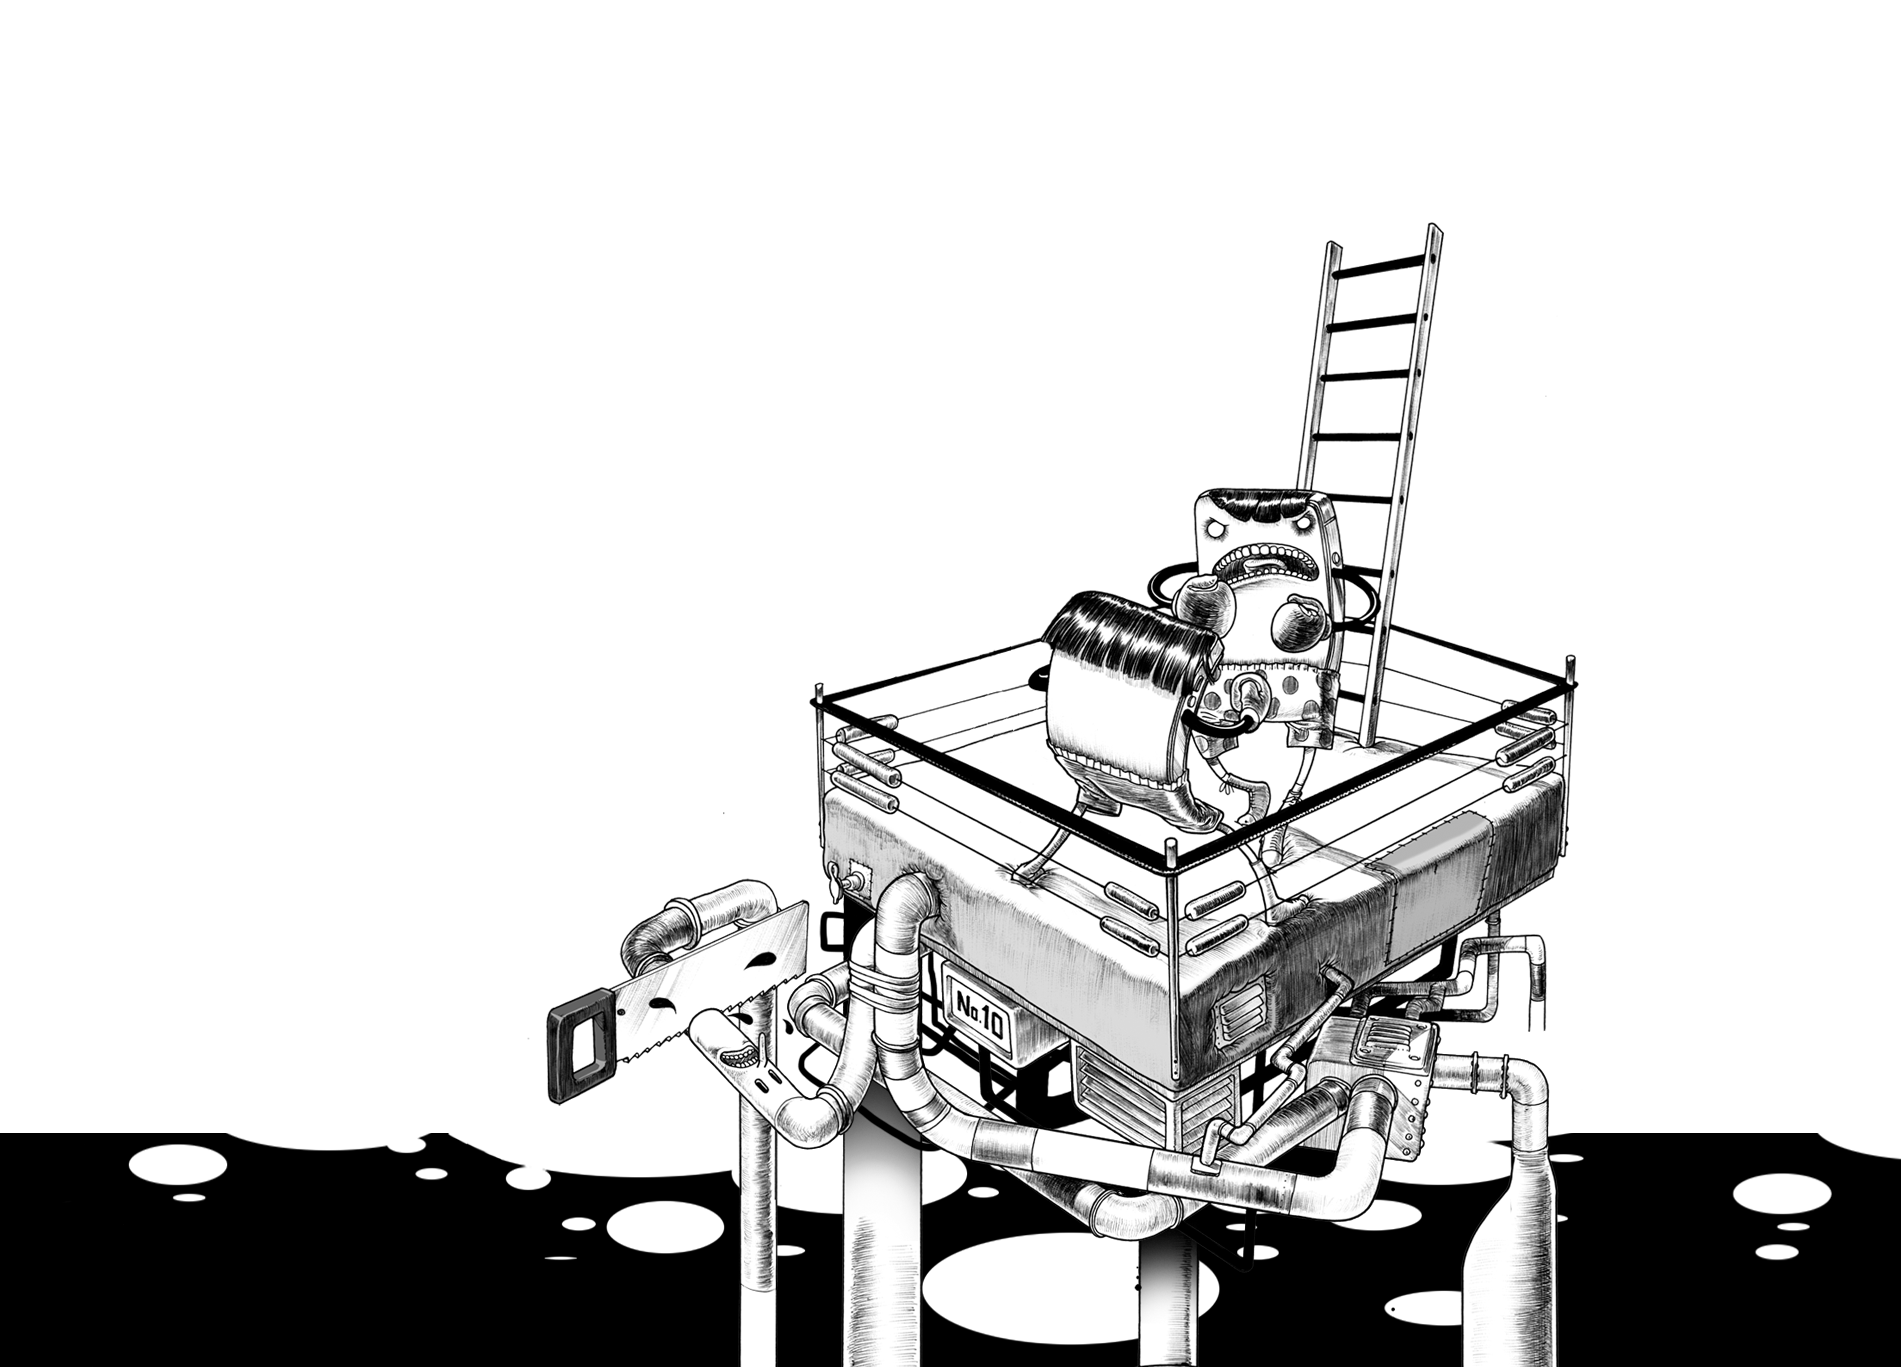
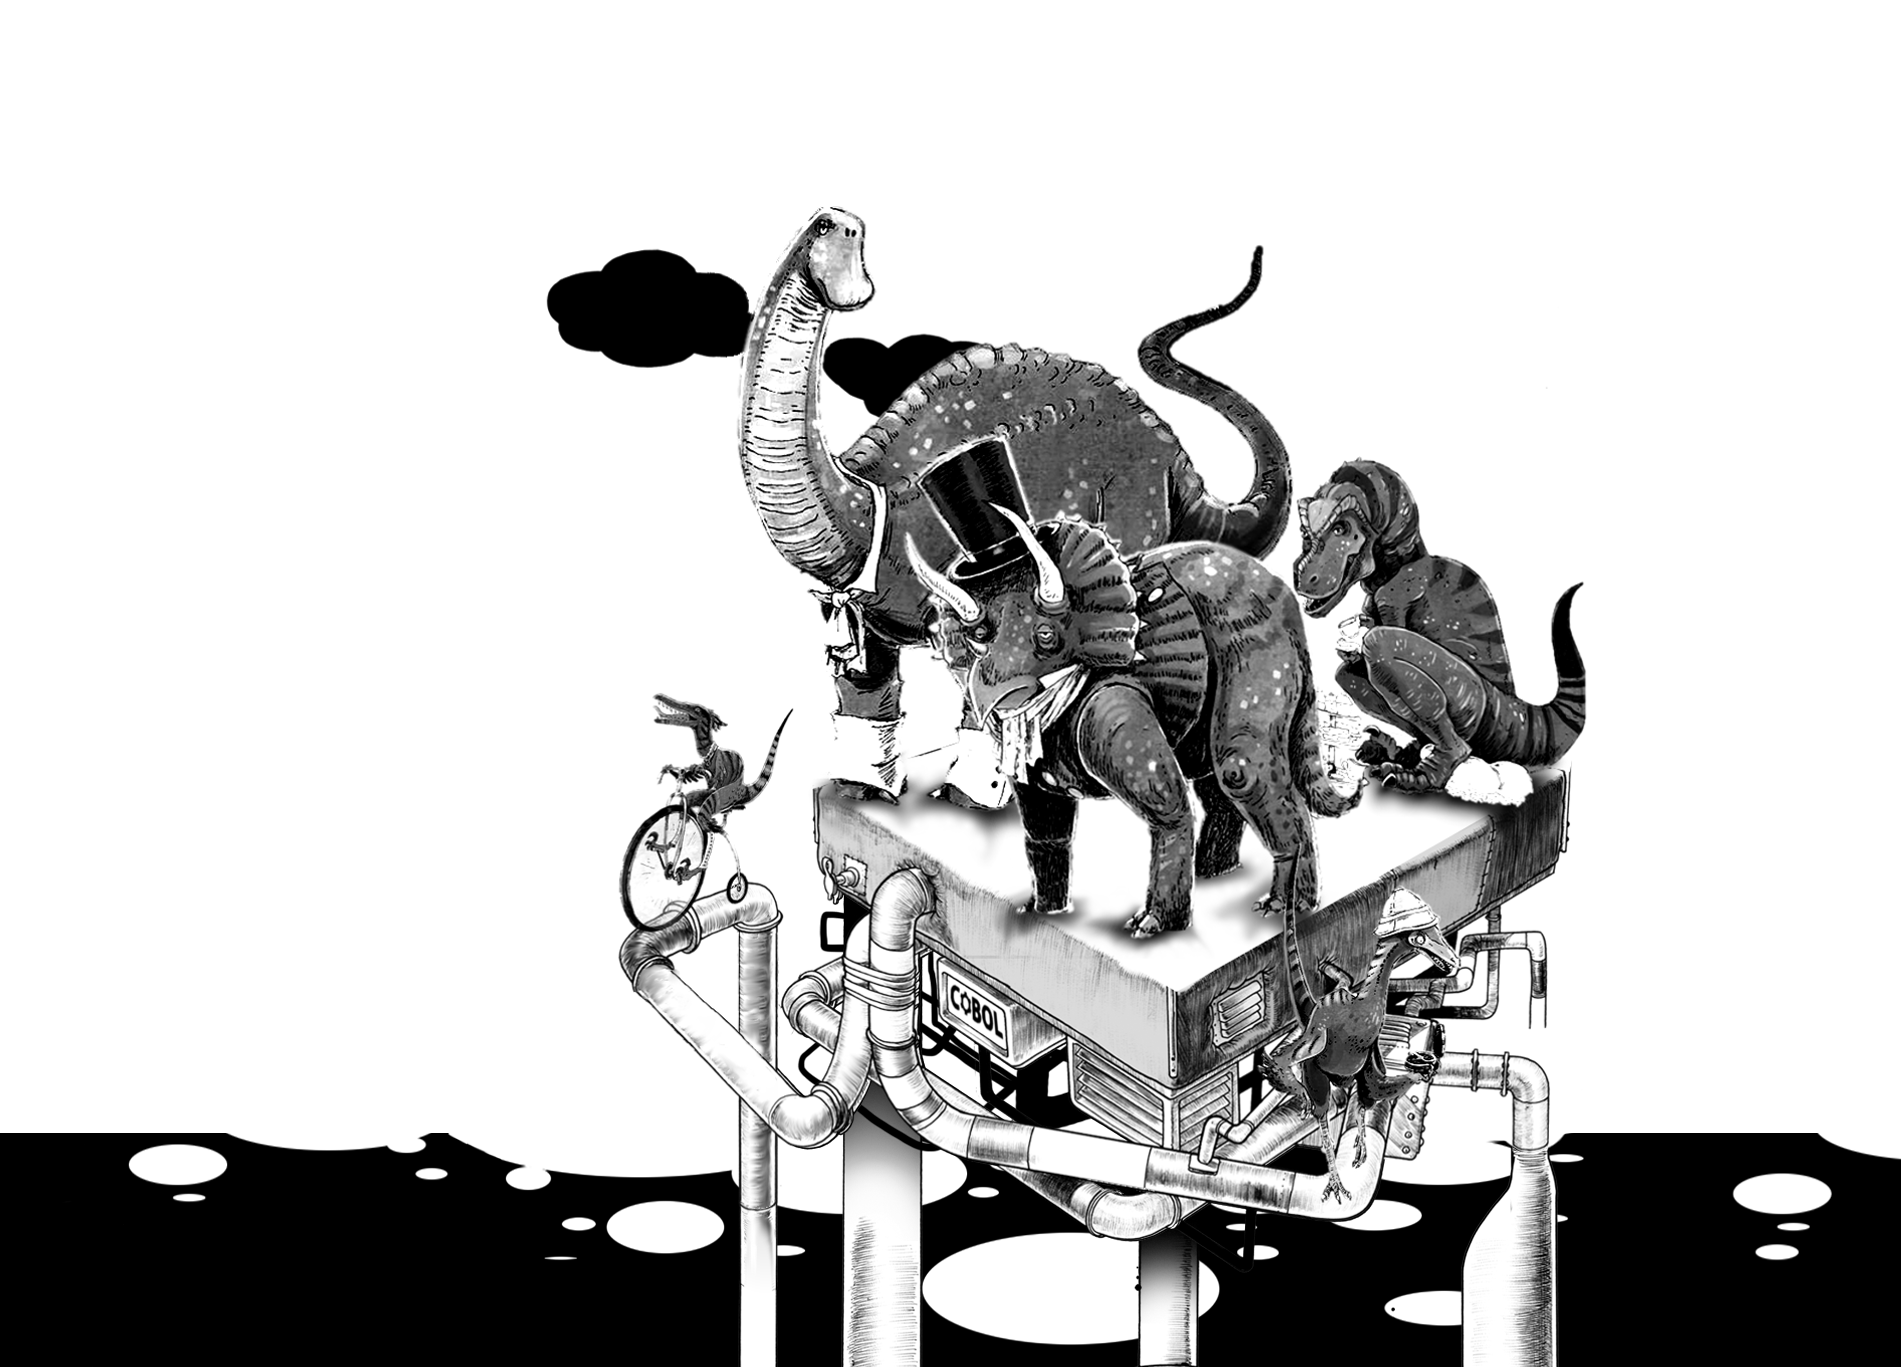
versao 2.7
agora com mobile funcionando até o tópico referente a cobol em java - 5º

Changed region(s): [[0.2793, 0.1536, 0.838, 0.9525]]

diff --git a/css/n.css b/css/n.css
@@ -974,24 +974,24 @@ body.mobile.viewing-page-2 section#story .trees {
 }
 /* scene 3 + animations */
 body.mobile section#branding {
-  background-position: 45% 105%;
+  background-position: 50% 0%;
   background-color: black;
   background-image: url(../img/branding-fox.png);
   background-repeat: no-repeat;
-  background-size: auto 72%;
+  background-size: auto 100%;
   height: 100%;
 }
 @media (max-width: 768px) {
   body.mobile section#branding {
-    background-position: 45% bottom;
+    background-position: 40% bottom;
     background-image: url(../img/branding-fox.png);
-    background-size: auto 68%;
+    background-size: auto 100%;
   }
 }
 @media (max-width: 480px) {
   body.mobile section#branding {
-    background-position: 44% 91%;
-    background-size: auto 56%;
+    background-position: 40% 0%;
+    background-size: auto 99%;
   }
 }
 body.mobile section#branding .more {
@@ -1018,20 +1018,20 @@ body.mobile section#branding .more {
 @media (max-width: 768px) {
   body.mobile section#branding .more {
     width: 44%;
-    top: 100px;
-    left: 28%;
+    top: 38.3%;
+    left: 31%;
   }
 }
 @media (max-width: 480px) {
   body.mobile section#branding .more {
-    top: 76px;
-    left: 48%;
+    top: 38.3%;
+    left: 31%;
   }
 }
 @media (min-device-width : 1024px) and (max-device-width : 1024px) and (min-device-height : 1366px) and (max-device-height : 1366px) and (min-width: 1024px) and (max-width: 1024px) {
   body.mobile section#branding .more {
     width: 320px;
-    top: 150px;
+    top: 38.3%;
   }
 }
 body.mobile section#branding .more a.link {
@@ -1095,11 +1095,11 @@ body.mobile.viewing-page-3 section#branding .more {
   opacity: 1;
 }
 body.mobile.viewing-page-3 section#branding .planets {
-  top: 15%;
+  top: 35%;
 }
 @media (max-width: 480px) {
   body.mobile.viewing-page-3 section#branding .planets {
-    top: 12%;
+    top: 22%;
   }
 }
 /* scene 4 + animations */
@@ -1141,8 +1141,8 @@ body.mobile section#spirit .top {
   }
 }
 body.mobile section#spirit .more {
-  top: 360px;
-  left: 6%;
+  top: 27px;
+  left: 1%;
   width: 26%;
   opacity: 0;
   -webkit-transition: opacity 1.6s;
@@ -1156,35 +1156,35 @@ body.mobile section#spirit .more {
 }
 @media (max-width: 1024px) {
   body.mobile section#spirit .more {
-    top: 245px;
-    left: 2%;
+    top: 97px;
+    left: 60%;
     width: 29%;
   }
 }
 @media (max-width: 768px) {
   body.mobile section#spirit .more {
-    top: 184px;
-    left: 2%;
+    top: 97px;
+    left: 63%;
     width: 36%;
   }
 }
 @media (max-width: 480px) {
   body.mobile section#spirit .more {
-    top: 124px;
-    left: 2%;
+    top: 27px;
+    left: 1%;
     width: 50%;
   }
 }
 @media (max-width: 340px) {
   body.mobile section#spirit .more {
-    top: 110px;
+    top: 27px;
     width: 48%;
   }
 }
 @media (min-device-width : 1024px) and (max-device-width : 1024px) and (min-device-height : 1366px) and (max-device-height : 1366px) and (min-width: 1024px) and (max-width: 1024px) {
   body.mobile section#spirit .more {
-    top: 270px;
-    left: 9%;
+    top: 97px;
+    left: 60%;
     width: 38%;
   }
 }
@@ -1195,7 +1195,7 @@ body.mobile section#spirit .more a.link {
 }
 @media (max-width: 1024px) {
   body.mobile section#spirit .more a.link {
-    top: 195px;
+    top: 185px;
   }
 }
 @media (max-width: 480px) {
@@ -1205,7 +1205,7 @@ body.mobile section#spirit .more a.link {
 }
 @media (max-width: 340px) {
   body.mobile section#spirit .more a.link {
-    top: 110px;
+    top: 100px;
   }
 }
 @media (min-device-width : 1024px) and (max-device-width : 1024px) and (min-device-height : 1366px) and (max-device-height : 1366px) and (min-width: 1024px) and (max-width: 1024px) {
@@ -1410,21 +1410,21 @@ body.mobile.viewing-page-5 section#xtnd .more {
   opacity: 1;
 }
 body.mobile.viewing-page-5 section#xtnd .tools {
-  top: 61%;
+  top: 40%;
 }
 @media (max-width: 768px) {
   body.mobile.viewing-page-5 section#xtnd .tools {
-    top: 70%;
+    top: 40%;
   }
 }
 @media (max-width: 480px) {
   body.mobile.viewing-page-5 section#xtnd .tools {
-    top: 55%;
+    top: 40%;
   }
 }
 @media (min-device-width : 1024px) and (max-device-width : 1024px) and (min-device-height : 1366px) and (max-device-height : 1366px) and (min-width: 1024px) and (max-width: 1024px) {
   body.mobile.viewing-page-5 section#xtnd .tools {
-    top: 68%;
+    top: 40%;
   }
 }
 /* scene 6 + animations */

diff --git a/mobile.html b/mobile.html
@@ -109,11 +109,11 @@
 		<div class="left">
 
 			<ul class="onepage-pagination">
-				<li class="menu-item"><a data-index="1" href="#1" class="">Vision</a></li>
-				<li class="menu-item"><a data-index="2" href="#2" class="">Bilingual</a></li>
-				<li class="menu-item"><a data-index="3" href="#3" class="">Branding</a></li>
-				<li class="menu-item"><a data-index="4" href="#4" class="">Spirit</a></li>
-				<li class="menu-item"><a data-index="5" href="#5" class="">N<span style="line-height:16px;">°</span>10 XTND</a></li>
+				<li class="menu-item"><a data-index="1" href="#1" class="">Mangata</a></li>
+				<li class="menu-item"><a data-index="2" href="#2" class="">Vantagens</a></li>
+				<li class="menu-item"><a data-index="3" href="#3" class="">Tecnologias</a></li>
+				<li class="menu-item"><a data-index="4" href="#4" class="">Diferencial</a></li>
+				<li class="menu-item"><a data-index="5" href="#5" class="">Cobol em Java</li>
 				<li class="menu-item"><a data-index="6" href="#6" class="">Method</a></li>
 				<li class="menu-item"><a data-index="7" href="#7" class="">Diferencial</a></li>
 				<li class="menu-item"><a data-index="8" href="#8" class="">People</a></li>
@@ -189,7 +189,7 @@
 		<!-- END OF POP-UP -->
 		<div class="more">
 			<img class="title" src="./img/home-title.png">
-			<a href="#" class="link"><i></i>Vision</a>
+			<a href="#" class="link"><i></i>Mangata</a>
 		</div>	
 		<!--<a href="http://www.google.ch" class="linky" style="padding:20px; border:1px solid red; margin-top:700px; color: black;">Vision</a>-->
 		<img class="tronconneuse" src="./img/home-tronconneuse.png">
@@ -213,7 +213,7 @@
 		<!-- END OF POP-UP -->
 		<div class="more">
 			<img class="title" src="./img/story-title.png">
-			<a href="#" class="link"><i></i>bilingual</a>	
+			<a href="#" class="link"><i></i>Vantagens</a>	
 		</div>
 		<img class="trees" src="./img/story-trees.png">	
 	</section>
@@ -237,7 +237,7 @@
 		<!-- END OF POP-UP -->
 		<div class="more">
 			<img class="title" src="./img/branding-title.png">
-			<a href="#" class="link"><i></i>branding</a>	
+			<a href="#" class="link"><i></i>Tecnologias</a>	
 		</div>
 		<img class="planets" src="./img/branding-planets.png">
 		<div class="bottom"></div>
@@ -261,7 +261,7 @@
 		<!-- END OF POP-UP -->
 		<div class="more">
 			<img class="title" src="./img/spirit-title.png">
-			<a href="#" class="link"><i></i>spirit</a>	
+			<a href="#" class="link"><i></i>Diferencial</a>	
 		</div>
 		<img class="nuages" src="./img/spirit-nuages.png">
 	</section>
@@ -313,7 +313,7 @@
 		<!-- END OF POP-UP -->
 		<div class="more">
 			<img class="title" src="./img/xtnd-title.png">
-			<a href="#" class="link"><i></i>n<span style="line-height:16px;">°</span>10 xtnd</a>	
+			<a href="#" class="link"><i></i>Cobol em Java</a>	
 		</div>
 		<img class="tools" src="./img/xtnd-tools.png">
 	</section>
